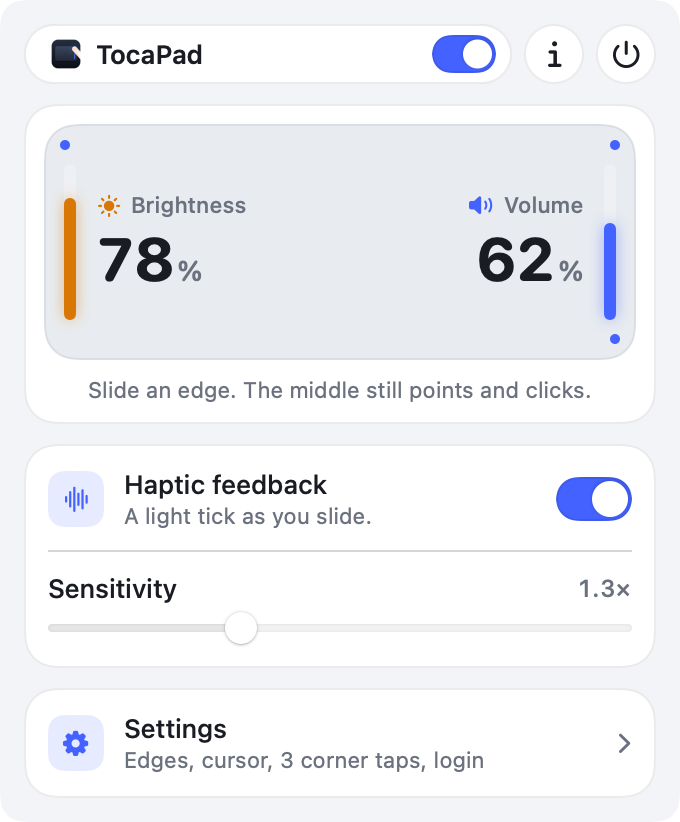
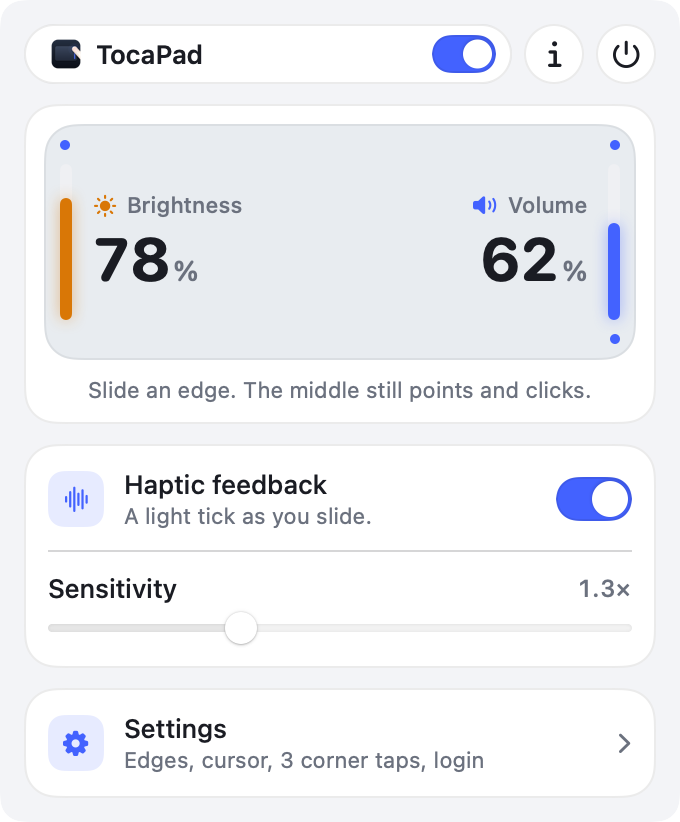
TocaPad 0.1.3: choose each control's edge, ignore palms while typing
- Volume and brightness each go on the left, right, top or bottom edge, or off.
  Top and bottom edges slide sideways. Replaces Swap sides (its setting carries over).
- Ignore while typing (on by default): edge touches that start within 0.8s of a
  key press do nothing.
- Edge width goes down to 4%.

Changed region(s): [[0.0618, 0.2433, 0.3706, 0.3954], [0.6794, 0.2433, 0.9265, 0.3954]]

diff --git a/Sources/TocaPad/EdgeEngine.swift b/Sources/TocaPad/EdgeEngine.swift
@@ -19,9 +19,24 @@ final class Settings: ObservableObject {
     }
     @Published var cursorFreeze: Bool { didSet { d.set(cursorFreeze, forKey: "cursorFreeze") } }
     @Published var bottomQuarter: Bool { didSet { d.set(bottomQuarter, forKey: "bottomQuarter") } }
-    @Published var swapSides: Bool { didSet { d.set(swapSides, forKey: "swapSides") } }
+    /// Which trackpad edge each control lives on. Two controls never share an edge: picking a
+    /// taken edge moves the other control to the one this control left.
+    @Published var volumeSide: EdgeSide {
+        didSet {
+            d.set(volumeSide.rawValue, forKey: "volumeSide")
+            if volumeSide != .off && brightnessSide == volumeSide { brightnessSide = oldValue }
+        }
+    }
+    @Published var brightnessSide: EdgeSide {
+        didSet {
+            d.set(brightnessSide.rawValue, forKey: "brightnessSide")
+            if brightnessSide != .off && volumeSide == brightnessSide { volumeSide = oldValue }
+        }
+    }
     @Published var sensitivity: Double { didSet { d.set(sensitivity, forKey: "sensitivity") } }
     @Published var edgeWidth: Double { didSet { d.set(edgeWidth, forKey: "edgeWidth") } }
+    /// Ignores edge touches that start just after a key press, so a resting palm can't slide.
+    @Published var typingGuard: Bool { didSet { d.set(typingGuard, forKey: "typingGuard") } }
     @Published var openAtLogin: Bool {
         didSet {
             guard openAtLogin != (SMAppService.mainApp.status == .enabled) else { return }
@@ -33,7 +48,8 @@ final class Settings: ObservableObject {
     init(defaults: UserDefaults = .standard) {
         d = defaults
         d.register(defaults: ["enabled": true, "haptics": true, "cursorFreeze": true,
-                              "bottomQuarter": false, "swapSides": false, "sensitivity": 1.3, "edgeWidth": 0.12])
+                              "bottomQuarter": false, "swapSides": false, "sensitivity": 1.3, "edgeWidth": 0.12,
+                              "typingGuard": true])
         enabled = d.bool(forKey: "enabled")
         haptics = d.bool(forKey: "haptics")
         var corners: [Corner: CornerAction] = [:]
@@ -50,9 +66,13 @@ final class Settings: ObservableObject {
         self.corners = corners
         cursorFreeze = d.bool(forKey: "cursorFreeze")
         bottomQuarter = d.bool(forKey: "bottomQuarter")
-        swapSides = d.bool(forKey: "swapSides")
+        // 0.1.x had a single Swap sides switch.
+        let swapped = d.bool(forKey: "swapSides")
+        volumeSide = d.string(forKey: "volumeSide").flatMap(EdgeSide.init) ?? (swapped ? .left : .right)
+        brightnessSide = d.string(forKey: "brightnessSide").flatMap(EdgeSide.init) ?? (swapped ? .right : .left)
         sensitivity = d.double(forKey: "sensitivity")
         edgeWidth = d.double(forKey: "edgeWidth")
+        typingGuard = d.bool(forKey: "typingGuard")
         openAtLogin = SMAppService.mainApp.status == .enabled
     }
 }
@@ -77,6 +97,23 @@ final class Status: ObservableObject {
 
 enum Control { case volume, brightness }
 
+/// A trackpad edge a control can sit on.
+enum EdgeSide: String, CaseIterable, Identifiable {
+    case off, left, right, top, bottom
+    var id: String { rawValue }
+    var title: String {
+        switch self {
+        case .off: "Off"
+        case .left: "Left edge"
+        case .right: "Right edge"
+        case .top: "Top edge"
+        case .bottom: "Bottom edge"
+        }
+    }
+    /// Top and bottom edges slide sideways; left and right slide up and down.
+    var horizontal: Bool { self == .top || self == .bottom }
+}
+
 /// Turns one finger sliding along a trackpad edge into volume or brightness changes, and a
 /// double tap in the top-right corner into mute.
 final class EdgeEngine {
@@ -88,10 +125,11 @@ final class EdgeEngine {
     private struct Track {
         var id: Int32
         var startX: Float, startY: Float
-        var lastY: Float
+        var lastX: Float, lastY: Float
         var startTime: Double
         var moved: Float = 0
         var control: Control?
+        var horizontal = false
         var active = false
         var value: Float = 0
         var step = 0
@@ -134,8 +172,9 @@ final class EdgeEngine {
         let f = down[0]
         guard var t = tracks[device], t.id == f.id else {
             end(device)
-            tracks[device] = Track(id: f.id, startX: f.x, startY: f.y, lastY: f.y, startTime: time,
-                                   control: control(atX: f.x, y: f.y),
+            let zone = zone(atX: f.x, y: f.y)
+            tracks[device] = Track(id: f.id, startX: f.x, startY: f.y, lastX: f.x, lastY: f.y, startTime: time,
+                                   control: zone?.control, horizontal: zone?.side.horizontal ?? false,
                                    cursor: CGEvent(source: nil)?.location ?? .zero)
             return
         }
@@ -143,23 +182,27 @@ final class EdgeEngine {
         let dx = f.x - t.startX, dy = f.y - t.startY
         t.moved = max(t.moved, (dx * dx + dy * dy).squareRoot())
 
+        // Along the edge and across it, in trackpad units.
+        let along = t.horizontal ? dx : dy, across = t.horizontal ? dy : dx
         if let control = t.control, !t.active {
-            if abs(dy) > 0.025 && abs(dy) > abs(dx) * 1.3 {
+            if abs(along) > 0.025 && abs(along) > abs(across) * 1.3 {
                 t.active = true
                 t.value = control == .volume ? (Volume.isMuted ? 0 : Volume.level) : Brightness.level
                 t.step = Int((t.value * steps).rounded())
+                t.lastX = f.x
                 t.lastY = f.y
                 if settings.cursorFreeze { freeze(at: t.cursor) }
                 show(control, t.value)
-            } else if abs(dx) > 0.06 {
-                t.control = nil  // A sideways move from the edge is just the pointer.
+            } else if abs(across) > (t.horizontal ? 0.09 : 0.06) {
+                t.control = nil  // Moving away from the edge is just the pointer.
             }
         }
 
         if t.active, let control = t.control {
             let fine = NSEvent.modifierFlags.contains([.shift, .option])
             let gain = Float(settings.sensitivity) * (fine ? 0.25 : 1)
-            t.value = min(max(t.value + (f.y - t.lastY) * gain, 0), 1)
+            let delta = t.horizontal ? f.x - t.lastX : f.y - t.lastY
+            t.value = min(max(t.value + delta * gain, 0), 1)
             apply(control, t.value)
             let step = Int((t.value * steps).rounded())
             if step != t.step {
@@ -169,19 +212,43 @@ final class EdgeEngine {
             show(control, t.value)
             if frozen { CGWarpMouseCursorPosition(t.cursor) }
         }
+        t.lastX = f.x
         t.lastY = f.y
         tracks[device] = t
     }
 
-    /// Which control an edge touch starts, if any.
-    private func control(atX x: Float, y: Float) -> Control? {
-        if settings.bottomQuarter && y > 0.25 { return nil }
+    /// Which control an edge touch starts, if any, and the edge it is on.
+    private func zone(atX x: Float, y: Float) -> (control: Control, side: EdgeSide)? {
+        if settings.typingGuard && Self.secondsSinceKeyPress < Self.typingPause { return nil }
         let w = Float(settings.edgeWidth)
-        let right: Control = settings.swapSides ? .brightness : .volume
-        let left: Control = settings.swapSides ? .volume : .brightness
-        if x > 1 - w { return right }
-        if x < w { return left }
-        return nil
+        var best: (control: Control, side: EdgeSide, distance: Float)?
+        for (control, side) in [(Control.volume, settings.volumeSide), (.brightness, settings.brightnessSide)] {
+            if side == .off { continue }
+            if settings.bottomQuarter && !side.horizontal && y > 0.25 { continue }
+            // Distance from the edge as a share of the trackpad's width, so a top or bottom
+            // strip is as thick under the finger as a side one.
+            let distance: Float
+            switch side {
+            case .left: distance = x
+            case .right: distance = 1 - x
+            case .bottom: distance = y / Self.aspect
+            case .top: distance = (1 - y) / Self.aspect
+            case .off: continue
+            }
+            if distance < w && distance < (best?.distance ?? .infinity) { best = (control, side, distance) }
+        }
+        return best.map { ($0.control, $0.side) }
+    }
+
+    /// Width over height of a Mac trackpad, near enough for every model.
+    private static let aspect: Float = 1.6
+
+    /// How long after a key press an edge touch counts as a palm.
+    private static let typingPause: Double = 0.8
+
+    /// Read from the window server's event counters; needs no Input Monitoring access.
+    private static var secondsSinceKeyPress: Double {
+        CGEventSource.secondsSinceLastEventType(.combinedSessionState, eventType: .keyDown)
     }
 
     private func apply(_ control: Control, _ value: Float) {

diff --git a/Sources/TocaPad/Menu.swift b/Sources/TocaPad/Menu.swift
@@ -153,20 +153,24 @@ struct MenuContent: View {
                               value: status.volume,
                               note: !status.volumeAdjustable ? "Not adjustable" : status.muted ? "Muted" : nil,
                               color: Theme.accent)
-        let left = settings.swapSides ? volume : brightness
-        let right = settings.swapSides ? brightness : volume
+        // Readings read left to right in the order their edges sit on the pad.
+        let rank: [EdgeSide: Int] = [.left: 0, .top: 1, .bottom: 1, .off: 1, .right: 2]
+        let placed = [(brightness, settings.brightnessSide), (volume, settings.volumeSide)]
+        let ordered = placed.sorted { rank[$0.1]! < rank[$1.1]! }
+        let first = ordered[0], second = ordered[1]
         return VStack(spacing: 8) {
             ZStack {
                 RoundedRectangle(cornerRadius: 16, style: .continuous).fill(Theme.pad)
                 RoundedRectangle(cornerRadius: 16, style: .continuous).strokeBorder(Theme.padEdge)
                 HStack(spacing: 0) {
-                    edgeStrip(left)
-                    padReading(left, alignment: .leading)
+                    padReading(first.0, alignment: .leading)
                     Spacer(minLength: 8)
-                    padReading(right, alignment: .trailing)
-                    edgeStrip(right)
+                    padReading(second.0, alignment: .trailing)
                 }
-                .padding(.horizontal, 10).padding(.vertical, 20)
+                .padding(.horizontal, 14).padding(.vertical, 20)
+                ForEach(placed.filter { $0.1 != .off }, id: \.1) { level, side in
+                    edgeStrip(level, side: side)
+                }
                 ForEach(Corner.allCases) { corner in
                     if settings.corners[corner]?.isSet == true {
                         Circle().fill(Theme.accent).frame(width: 5, height: 5)
@@ -191,16 +195,23 @@ struct MenuContent: View {
         let title: String, symbol: String, value: Float, note: String?, color: Color
     }
 
-    private func edgeStrip(_ level: PadLevel) -> some View {
-        GeometryReader { geo in
-            ZStack(alignment: .bottom) {
+    /// A level drawn along the edge it is slid on: bottom to top on a side, left to right
+    /// on the top or bottom.
+    private func edgeStrip(_ level: PadLevel, side: EdgeSide) -> some View {
+        let fill = CGFloat(level.note == nil ? level.value : 0)
+        return GeometryReader { geo in
+            ZStack(alignment: side.horizontal ? .leading : .bottom) {
                 Capsule().fill(Theme.control)
                 Capsule().fill(level.color)
-                    .frame(height: max(6, geo.size.height * CGFloat(level.note == nil ? level.value : 0)))
+                    .frame(width: side.horizontal ? max(6, geo.size.width * fill) : nil,
+                           height: side.horizontal ? nil : max(6, geo.size.height * fill))
                     .shadow(color: level.color.opacity(0.45), radius: 4)
             }
         }
-        .frame(width: 6)
+        .frame(width: side.horizontal ? nil : 6, height: side.horizontal ? 6 : nil)
+        .padding(side.horizontal ? .horizontal : .vertical, 20)
+        .padding(side.horizontal ? .vertical : .horizontal, 8)
+        .frame(maxWidth: .infinity, maxHeight: .infinity, alignment: side.alignment)
     }
 
     private func padReading(_ level: PadLevel, alignment: HorizontalAlignment) -> some View {
@@ -243,13 +254,17 @@ struct MenuContent: View {
 
         section("Sliding")
         VStack(alignment: .leading, spacing: 10) {
-            row("Swap sides", "Volume left, brightness right.", "arrow.left.arrow.right", $settings.swapSides)
+            sideRow("Volume", "speaker.wave.2.fill", $settings.volumeSide)
             Divider()
-            row("Bottom quarter only", "Ignore touches higher up.", "rectangle.bottomhalf.filled", $settings.bottomQuarter)
+            sideRow("Brightness", "sun.max.fill", $settings.brightnessSide)
+            Divider()
+            row("Ignore while typing", "Palms on the edges do nothing just after a key press.", "keyboard", $settings.typingGuard)
+            Divider()
+            row("Bottom quarter only", "Left and right edges ignore touches higher up.", "rectangle.bottomhalf.filled", $settings.bottomQuarter)
             Divider()
             row("Cursor freeze", "The pointer stays put.", "cursorarrow", $settings.cursorFreeze)
             Divider()
-            slider("Edge width", "\(Int((settings.edgeWidth * 100).rounded()))%", $settings.edgeWidth, 0.06...0.25)
+            slider("Edge width", "\(Int((settings.edgeWidth * 100).rounded()))%", $settings.edgeWidth, 0.04...0.25)
             Text("Hold ⇧⌥ while sliding for fine steps.").font(.system(size: 11)).foregroundStyle(Theme.secondary)
         }
         .card()
@@ -372,6 +387,44 @@ struct MenuContent: View {
         }
     }
 
+    /// A control and the edge it sits on, chosen from a menu.
+    private func sideRow(_ title: String, _ symbol: String, _ side: Binding<EdgeSide>) -> some View {
+        let value = side.wrappedValue
+        let detail = value == .off ? "Not on any edge." : value.horizontal ? "Slide left and right." : "Slide up and down."
+        return HStack(spacing: 10) {
+            icon(symbol)
+            VStack(alignment: .leading, spacing: 1) {
+                Text(title).font(.system(size: 13, weight: .medium))
+                Text(detail).font(.system(size: 11)).foregroundStyle(Theme.secondary)
+            }
+            Spacer(minLength: 6)
+            Menu {
+                ForEach(EdgeSide.allCases) { option in
+                    if option == .left { Divider() }
+                    Button {
+                        side.wrappedValue = option
+                    } label: {
+                        if option == value { Label(option.title, systemImage: "checkmark") } else { Text(option.title) }
+                    }
+                }
+            } label: {
+                HStack(spacing: 4) {
+                    Text(value.title).font(.system(size: 12, weight: .medium))
+                    Image(systemName: "chevron.up.chevron.down").font(.system(size: 8, weight: .semibold))
+                }
+                .foregroundStyle(value == .off ? Theme.secondary : Theme.text)
+                .padding(.horizontal, 10).frame(height: 26)
+                .background(Capsule().fill(Theme.card))
+                .overlay(Capsule().strokeBorder(Theme.stroke))
+                .contentShape(Capsule())
+            }
+            .menuStyle(.borderlessButton)
+            .menuIndicator(.hidden)
+            .fixedSize()
+            .accessibilityLabel("\(title) edge: \(value.title)")
+        }
+    }
+
     private func slider(_ title: String, _ value: String, _ binding: Binding<Double>, _ range: ClosedRange<Double>) -> some View {
         VStack(alignment: .leading, spacing: 4) {
             HStack {
@@ -412,6 +465,18 @@ struct AppIconImage: View {
             Image(nsImage: image).resizable().interpolation(.high).frame(width: size, height: size)
         } else {
             Image(systemName: "hand.point.up.left.fill").font(.system(size: size * 0.7)).foregroundStyle(Theme.accent)
+        }
+    }
+}
+
+extension EdgeSide {
+    /// Where this edge is inside the little trackpad drawing.
+    var alignment: Alignment {
+        switch self {
+        case .left: .leading
+        case .right: .trailing
+        case .top: .top
+        case .bottom, .off: .bottom
         }
     }
 }

diff --git a/Sources/TocaPad/Snapshot.swift b/Sources/TocaPad/Snapshot.swift
@@ -23,7 +23,8 @@ enum Snapshot {
         settings.corners = [.topRight: CornerAction(kind: .mute), .topLeft: CornerAction(kind: .missionControl),
                             .bottomRight: CornerAction(kind: .playPause)]
         settings.bottomQuarter = false
-        settings.swapSides = false
+        settings.volumeSide = .right
+        settings.brightnessSide = .left
         let updates = UpdateChecker(appName: "TocaPad", repo: "getguruhat/tocapad-macos")
         let model = HUD.Model()
         model.kind = .volume

diff --git a/README.md b/README.md
@@ -13,8 +13,12 @@ the one the keyboard keys show.
 
 ## What it does
 
-- **Volume on the right, brightness on the left.** One finger, sliding up or down. A
+- **Volume on the right, brightness on the left,** sliding up or down with one finger. A
   second finger cancels, so scrolling and other gestures still work.
+- **Choose the edges:** put each control on the left, right, top or bottom edge, or turn it
+  off. The top and bottom edges slide left and right.
+- **Ignore while typing** (on by default): an edge touch that starts just after a key press
+  does nothing, so a resting palm can't change the volume.
 - **Haptic feedback:** a light tick under your finger at each step, on Force Touch trackpads.
 - **Cursor freeze:** the pointer stays where it was while you slide.
 - **Fine steps:** hold Shift-Option while sliding.
@@ -24,9 +28,8 @@ the one the keyboard keys show.
   the same double tap is also a double-click where the pointer is.
   With tap to click on, a double-click on something in that corner mutes too, which is why
   it starts off.
-- **Bottom quarter only:** only the lower part of the edges responds, if you rest your
-  fingers on the trackpad's sides.
-- **Swap sides:** volume on the left, brightness on the right.
+- **Bottom quarter only:** only the lower part of the left and right edges responds, if you
+  rest your fingers on the trackpad's sides.
 - **Sensitivity** and **edge width** sliders, and **Open at login**.
 - Works with the built-in trackpad and a Magic Trackpad, including one connected after
   TocaPad starts.
